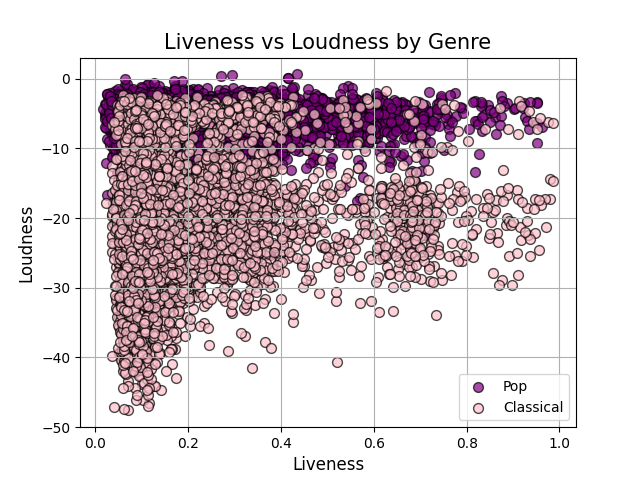
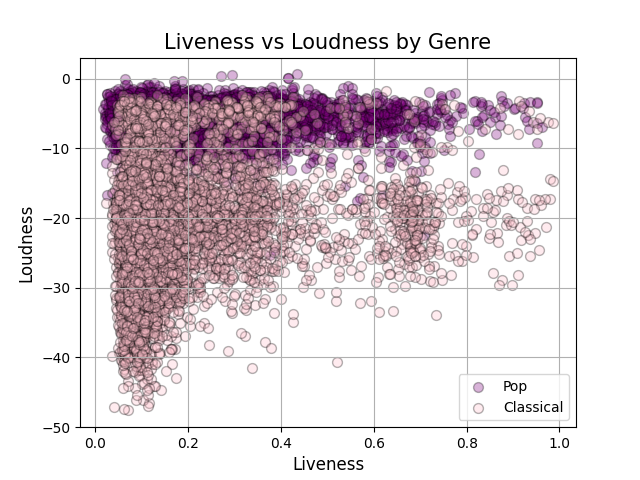
Found an ok learning rate for noe

diff --git a/A1/src/preprocessing.py b/A1/src/preprocessing.py
@@ -3,37 +3,104 @@ import pandas as pd
 import matplotlib.pyplot as plt
 from sklearn.model_selection import train_test_split
 import os
+from plot import Plots
 
 
-class DataProcessing(): 
+class DataProcessing(Plots): 
+    """ 
+    A class to handle data loading, preprocessing, and basic analysis for the Spotify dataset.
+    """
+
     def __init__(self, filepath): 
+        """
+        Initializes the DataProcessing class with the provided filepath.
+
+        ### Parameters:
+        filepath : str \\
+            The path to the dataset file.
+        """
+
         self.filepath = filepath
         self.data = None
 
+        # Load and process the data when the class is initialized 
+        self.load_data()
+        self.process_data()
 
+# 1a) 
     def load_data(self):
-        self.data = pd.read_csv(self.filepath, delimiter=",")
-        print(f'filepath: {self.filepath} \n number of rows: {len(self.data)} \n number of columns: {len(self.data.columns)}')
-        
+        """ 
+        Load the data from the given filepath 
+        """
+
+        try: 
+            self.data = pd.read_csv(self.filepath, delimiter=",")
+            print(f'filepath: {self.filepath} \n number of samples (rows-1): {len(self.data)-1} \n number of features (columns): {len(self.data.columns)}')
+        except Exception as e:
+            print(f"Failed to load data from {self.filepath}, {e}")
+
+# 1b) 
+    def process_data(self):
+        """ 
+        Process the data by classifying and filtering the features 
+        """
+
+        self.classify_data()
+        self.filter_features()
+# 1b)       
     def classify_data(self):
+        """        
+        Classifies the data into 'Pop' (1) and 'Classical' (0) genres.
+        """
+        
         self.data = self.data[self.data["genre"].isin(["Pop", "Classical"])]
        
         self.data.loc[self.data["genre"] == "Pop", "genre"] = 1
         self.data.loc[self.data["genre"] == "Classical", "genre"] = 0
         print(f'Pop: {len(self.data[self.data["genre"]==1])}\nClassical: {len(self.data[self.data["genre"]==0])}')
 
-
+# 1c) 
     def split_data(self, test_size, random_state):
+        """
+        Splits the data into training and testing sets.
+
+        ### Parameters:
+        - test_size : float \\
+            The proportion of the dataset to include in the test split.
+        - random_state : int \\
+            Controls the shuffling applied to the data before applying the split.
+
+        ### Returns:
+        - X_train, X_test, y_train, y_test. \\
+        The training and testing data splits.
+        """
+
         features = self.data[['liveness', 'loudness']]
         labels = self.data['genre']
         X_train, X_test, y_train, y_test = train_test_split(features, labels, test_size=test_size, random_state=random_state, stratify=labels)
         print(f"Training set size: {len(X_train)}, Testing set size: {len(X_test)}")
         return X_train, X_test, y_train, y_test
     
-    def save_plot(self, plot_title):
-        # Save the plot in the plots directory with the name of the plot
+    def filter_features(self):
+        """
+        Filters the dataset to include only the relevant features.
+        """
+        
+        self.data = self.data[['liveness', 'loudness', 'genre']]
+        print("Filtered to necessary features: 'liveness', 'loudness', and 'genre'")
+
+    def save_plot(self, plot_title, plot_directory="../plots"):
+        """ 
+        Save the plot in the plots directory with the name of the plot 
+
+        ### Parameters:
+        - plot_title : str \\
+            The title of the plot, which will also be used as the filename.
+        - plot_directory : str, optional \\
+            The directory where the plot will be saved (default is "../plots").
+        """ 
+        
         plot_filename = f"{plot_title.replace(' ', '_').lower()}.png"
-        plot_directory = "../plots"
 
         # Create the directory if it doesn't exist 
         if not os.path.exists(plot_directory):
@@ -42,13 +109,19 @@ class DataProcessing():
         plt.savefig(os.path.join(plot_directory, plot_filename))
         print(f"Plot saved to {plot_directory}/{plot_filename}")
 
-    def plot_data(self):
-        plot_title = 'Liveness vs Loudness by Genre'
+    def plot_data(self, plot_title):
+        """
+        Plots the data on a 2D plane with 'liveness' on the x-axis and 'loudness' on the y-axis.
+
+        ### Parameters:
+        plot_title : str \\
+            The title of the plot.
+        """
 
         pop_data = self.data[self.data['genre'] == 1]
         classical_data = self.data[self.data['genre'] == 0]
-        plt.scatter(pop_data['liveness'], pop_data['loudness'], color='purple', edgecolor='black', label='Pop', alpha=0.7, s=50)
-        plt.scatter(classical_data['liveness'], classical_data['loudness'], color='pink', edgecolor='black', label='Classical', alpha=0.7, s=50)
+        plt.scatter(pop_data['liveness'], pop_data['loudness'], color='purple', edgecolor='black', label='Pop', alpha=0.3, s=50)
+        plt.scatter(classical_data['liveness'], classical_data['loudness'], color='pink', edgecolor='black', label='Classical', alpha=0.3, s=50)
         plt.title(plot_title, fontsize=15)
         plt.xlabel('Liveness', fontsize=12)
         plt.ylabel('Loudness', fontsize=12)
@@ -63,19 +136,3 @@ class DataProcessing():
 
 
 
-
-
-if __name__ == "__main__":
-    filepath = "../data/SpotifyFeatures.csv"
-
-    preprocessing = DataProcessing(filepath)
-
-    # task 1a 
-    preprocessing.load_data()
-
-    # task 1b
-    preprocessing.classify_data()
-
-    X_train, X_test, y_train, y_test = preprocessing.split_data(0.2, 42)
-
-    preprocessing.plot_data()

diff --git a/A1/src/machineLearning.py b/A1/src/machineLearning.py
@@ -12,7 +12,7 @@ class Perception():
         self.weight = np.random.rand(input_dim,1)   
         self.bias = np.random.rand(1)
         self.y_hat = None
-        self.r = 0.00001                           # learning rate 
+        self.r = 1e-6                      # learning rate 
 
     def sigmoid_function(self, x):
         '''
@@ -74,11 +74,12 @@ class Perception():
         -  y : np.array \\
             The true label of sample x (0,1)
         '''
-        self.y_hat = np.round(self.y_hat)
+        self.y_hat = np.round(self.y_hat)          # round so we only work with 0 and 1 values 
         accuracy = np.sum(self.y_hat.reshape(y.shape) == y) / len(y)
 
         return accuracy
     
+
 
     def train(self, x, y, epochs): 
         '''

diff --git a/A1/src/main.py b/A1/src/main.py
@@ -11,7 +11,8 @@ if __name__ == "__main__":
 
 
     model = Perception() 
-    model.train(np.array(X_train).T, np.array(y_train).T, 1000)
-    acc = model.predict(y_train)
+    model.train(np.array(X_train).T, np.array(y_train).T, 500)
+    accuracy = model.predict(y_train)
+
 
 
